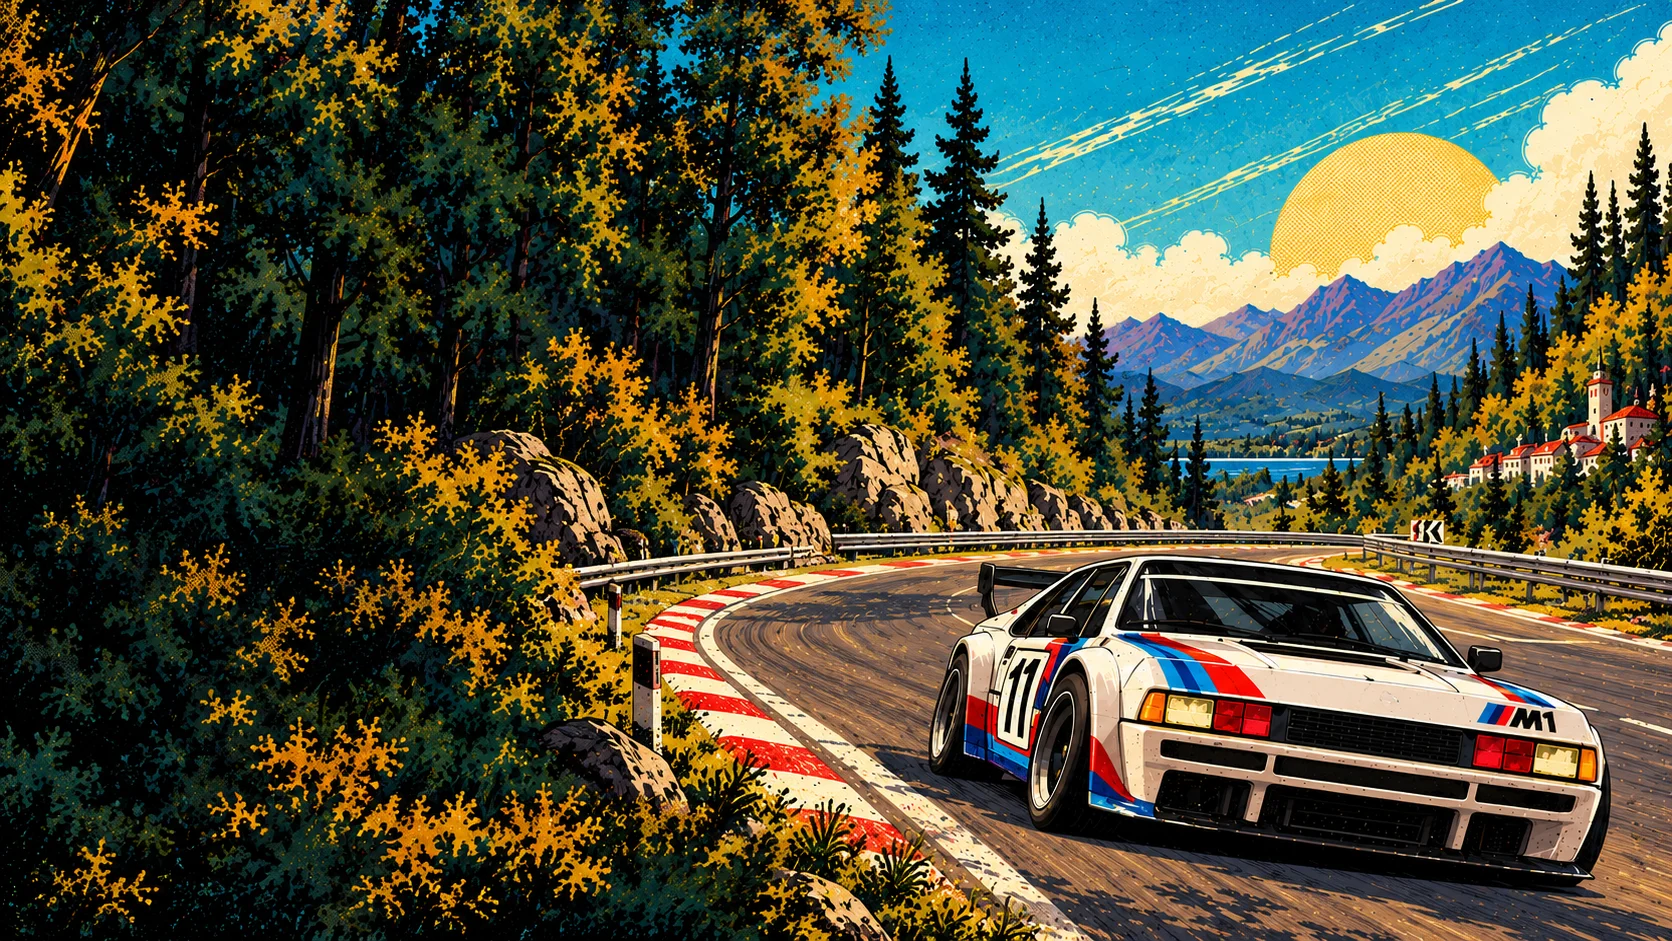
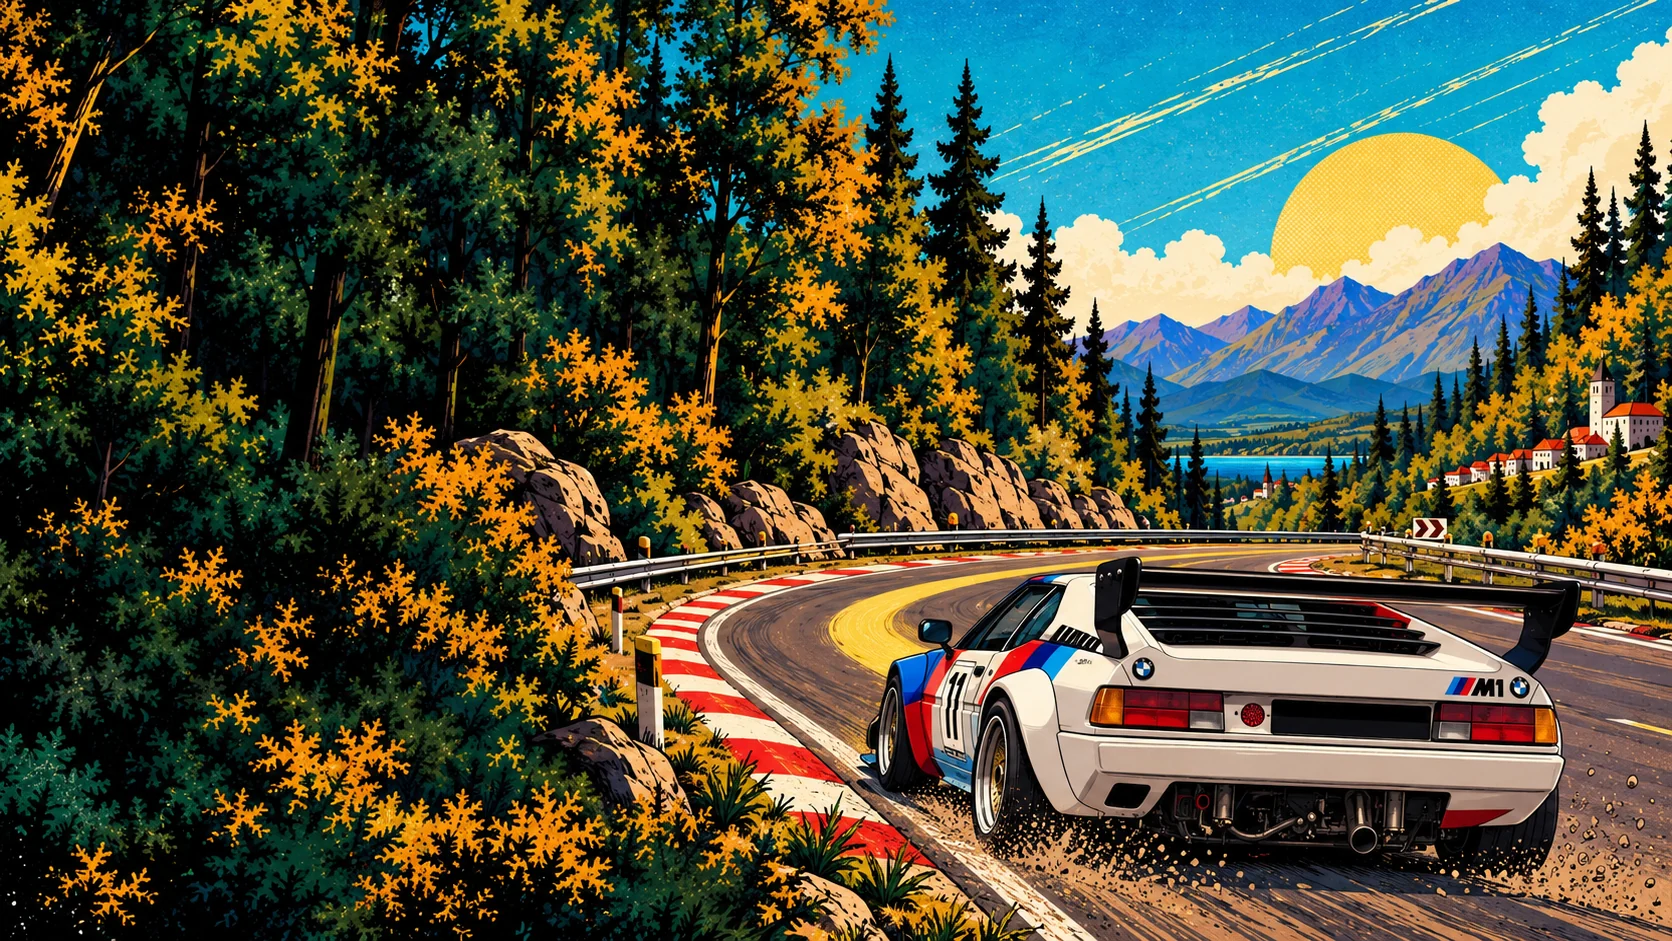
Use the reworked M1 home illustrations
The PC and mobile home backgrounds now come from Bruno's
accueil-pc_reprise / accueil-mobile_reprise masters, re-encoded to
WebP at a weight close to the previous ones (550 and 575 KB instead
of 3.2 MB). The CSS URLs carry a revision so browsers drop the old
cached pictures.

Claude-Session: https://claude.ai/code/session_01WCku2F6Jz7QYnAByeRTzna

diff --git a/index.html b/index.html
@@ -7,45 +7,45 @@
   <meta name="mobile-web-app-capable" content="yes">
   <meta name="theme-color" content="#0f1117">
   <title>Eyes On Line</title>
-  <link rel="icon" type="image/png" sizes="32x32" href="art/icone-32.png?v=0.39.0">
-  <link rel="icon" type="image/png" sizes="16x16" href="art/icone-16.png?v=0.39.0">
-  <link rel="icon" type="image/png" sizes="48x48" href="art/icone-48.png?v=0.39.0">
-  <link rel="icon" type="image/x-icon" href="favicon.ico?v=0.39.0">
-  <link rel="apple-touch-icon" href="art/icone-180.png?v=0.39.0">
-  <link rel="manifest" href="site.webmanifest?v=0.39.0">
-  <link rel="stylesheet" href="css/style.css?v=0.39.0">
+  <link rel="icon" type="image/png" sizes="32x32" href="art/icone-32.png?v=0.39.1">
+  <link rel="icon" type="image/png" sizes="16x16" href="art/icone-16.png?v=0.39.1">
+  <link rel="icon" type="image/png" sizes="48x48" href="art/icone-48.png?v=0.39.1">
+  <link rel="icon" type="image/x-icon" href="favicon.ico?v=0.39.1">
+  <link rel="apple-touch-icon" href="art/icone-180.png?v=0.39.1">
+  <link rel="manifest" href="site.webmanifest?v=0.39.1">
+  <link rel="stylesheet" href="css/style.css?v=0.39.1">
 </head>
 <body>
   <canvas id="game"></canvas>
   <div id="ui" class="hidden"></div>
 
-  <script src="js/version.js?v=0.39.0"></script>
-  <script src="js/util.js?v=0.39.0"></script>
-  <script src="js/controls.js?v=0.39.0"></script>
-  <script src="js/traces.js?v=0.39.0"></script>
-  <script src="js/tracks.js?v=0.39.0"></script>
-  <script src="js/track.js?v=0.39.0"></script>
-  <script src="js/cars.js?v=0.39.0"></script>
-  <script src="js/carart.js?v=0.39.0"></script>
-  <script src="js/car.js?v=0.39.0"></script>
-  <script src="js/flags.js?v=0.39.0"></script>
-  <script src="js/race.js?v=0.39.0"></script>
-  <script src="js/career.js?v=0.39.0"></script>
-  <script src="js/store.js?v=0.39.0"></script>
-  <script src="js/props.js?v=0.39.0"></script>
-  <script src="js/room-rtc.js?v=0.39.0"></script>
-  <script src="js/paquet.js?v=0.39.0"></script>
-  <script src="js/spectator.js?v=0.39.0"></script>
-  <script src="js/net-drive.js?v=0.39.0"></script>
-  <script src="js/net.js?v=0.39.0"></script>
-  <script src="js/mondial.js?v=0.39.0"></script>
-  <script src="js/analytics.js?v=0.39.0"></script>
-  <script src="js/circuit-graphics.js?v=0.39.0"></script>
-<script src="js/render.js?v=0.39.0"></script>
-  <script src="js/engine-audio.js?v=0.39.0"></script>
-  <script src="js/audio.js?v=0.39.0"></script>
-  <script src="js/ui.js?v=0.39.0"></script>
-  <script src="js/gamepad-ui.js?v=0.39.0"></script>
-  <script src="js/main.js?v=0.39.0"></script>
+  <script src="js/version.js?v=0.39.1"></script>
+  <script src="js/util.js?v=0.39.1"></script>
+  <script src="js/controls.js?v=0.39.1"></script>
+  <script src="js/traces.js?v=0.39.1"></script>
+  <script src="js/tracks.js?v=0.39.1"></script>
+  <script src="js/track.js?v=0.39.1"></script>
+  <script src="js/cars.js?v=0.39.1"></script>
+  <script src="js/carart.js?v=0.39.1"></script>
+  <script src="js/car.js?v=0.39.1"></script>
+  <script src="js/flags.js?v=0.39.1"></script>
+  <script src="js/race.js?v=0.39.1"></script>
+  <script src="js/career.js?v=0.39.1"></script>
+  <script src="js/store.js?v=0.39.1"></script>
+  <script src="js/props.js?v=0.39.1"></script>
+  <script src="js/room-rtc.js?v=0.39.1"></script>
+  <script src="js/paquet.js?v=0.39.1"></script>
+  <script src="js/spectator.js?v=0.39.1"></script>
+  <script src="js/net-drive.js?v=0.39.1"></script>
+  <script src="js/net.js?v=0.39.1"></script>
+  <script src="js/mondial.js?v=0.39.1"></script>
+  <script src="js/analytics.js?v=0.39.1"></script>
+  <script src="js/circuit-graphics.js?v=0.39.1"></script>
+<script src="js/render.js?v=0.39.1"></script>
+  <script src="js/engine-audio.js?v=0.39.1"></script>
+  <script src="js/audio.js?v=0.39.1"></script>
+  <script src="js/ui.js?v=0.39.1"></script>
+  <script src="js/gamepad-ui.js?v=0.39.1"></script>
+  <script src="js/main.js?v=0.39.1"></script>
 </body>
 </html>

diff --git a/lignes.html b/lignes.html
@@ -4,12 +4,12 @@
 <meta charset="utf-8">
 <meta name="viewport" content="width=device-width, initial-scale=1, viewport-fit=cover, maximum-scale=1">
 <title>Eyes On Line — Éditeur de lignes et de panneaux</title>
-<link rel="icon" type="image/png" sizes="32x32" href="art/icone-32.png?v=0.39.0">
-<link rel="icon" type="image/png" sizes="16x16" href="art/icone-16.png?v=0.39.0">
-<link rel="icon" type="image/png" sizes="48x48" href="art/icone-48.png?v=0.39.0">
-<link rel="icon" type="image/x-icon" href="favicon.ico?v=0.39.0">
-<link rel="apple-touch-icon" href="art/icone-180.png?v=0.39.0">
-<link rel="stylesheet" href="css/style.css?v=0.39.0">
+<link rel="icon" type="image/png" sizes="32x32" href="art/icone-32.png?v=0.39.1">
+<link rel="icon" type="image/png" sizes="16x16" href="art/icone-16.png?v=0.39.1">
+<link rel="icon" type="image/png" sizes="48x48" href="art/icone-48.png?v=0.39.1">
+<link rel="icon" type="image/x-icon" href="favicon.ico?v=0.39.1">
+<link rel="apple-touch-icon" href="art/icone-180.png?v=0.39.1">
+<link rel="stylesheet" href="css/style.css?v=0.39.1">
 <style>
   body { overflow: hidden; }
   #ed { position: fixed; inset: 0; display: grid; grid-template-columns: 340px 1fr; }
@@ -240,15 +240,15 @@
   </div>
 </div>
 
-<script src="js/store.js?v=0.39.0"></script>
-<script src="js/util.js?v=0.39.0"></script>
-<script src="js/traces.js?v=0.39.0"></script>
-<script src="js/tracks.js?v=0.39.0"></script>
-<script src="js/track.js?v=0.39.0"></script>
-<script src="js/props.js?v=0.39.0"></script>
-<script src="js/circuit-graphics.js?v=0.39.0"></script>
-<script src="js/flags.js?v=0.39.0"></script>
-<script src="js/render.js?v=0.39.0"></script>
-<script src="js/lignes.js?v=0.39.0"></script>
+<script src="js/store.js?v=0.39.1"></script>
+<script src="js/util.js?v=0.39.1"></script>
+<script src="js/traces.js?v=0.39.1"></script>
+<script src="js/tracks.js?v=0.39.1"></script>
+<script src="js/track.js?v=0.39.1"></script>
+<script src="js/props.js?v=0.39.1"></script>
+<script src="js/circuit-graphics.js?v=0.39.1"></script>
+<script src="js/flags.js?v=0.39.1"></script>
+<script src="js/render.js?v=0.39.1"></script>
+<script src="js/lignes.js?v=0.39.1"></script>
 </body>
 </html>

diff --git a/css/style.css b/css/style.css
@@ -650,7 +650,7 @@ button:focus-visible, a:focus-visible, select:focus-visible, input:focus-visible
 .setup-options[hidden] { display: none !important; }
 
 /* 0.38 — racing poster and printed paddock sheets. Art never contains controls. */
-#ui:has(.home-screen, .title-desktop) { background: #142724 url('../art/interface/accueil-pc.webp') right center / cover no-repeat; }
+#ui:has(.home-screen, .title-desktop) { background: #142724 url('../art/interface/accueil-pc.webp?r=2') right center / cover no-repeat; }
 .game-logo { display:block; width:100%; height:auto; }
 .screen.home-screen, body.desktop .screen.home-screen { width:100%; max-width:none; height:100%; max-height:none; margin:0; padding:clamp(16px,3vh,36px) 4vw max(12px,env(safe-area-inset-bottom)); gap:12px; }
 .home-heading { width:min(54vw,740px); flex-shrink:0; }
@@ -716,7 +716,7 @@ body.desktop .screen.title-desktop { display:flex; justify-content:center; width
 .setup-screen :is(button,select,input):focus-visible, .selection-screen :is(button,select,input):focus-visible { outline:3px solid #b72c22; outline-offset:3px; }
 .setup-screen .pad-focus, .selection-screen .pad-focus { outline:3px solid #b72c22!important; outline-offset:3px; }
 @media (max-width:850px) {
-  #ui:has(.home-screen) { background-image:url('../art/interface/accueil-mobile.webp'); }
+  #ui:has(.home-screen) { background-image:url('../art/interface/accueil-mobile.webp?r=2'); }
   .screen.home-screen, body.desktop .screen.home-screen { padding: max(10px,env(safe-area-inset-top)) 16px max(10px,env(safe-area-inset-bottom)); gap:10px; }
   .home-heading { width:100%; }
   .home-heading .game-logo { height:clamp(105px,23vh,190px); max-height:none; object-position:center; }

diff --git a/editor.html b/editor.html
@@ -4,12 +4,12 @@
   <meta charset="utf-8">
   <meta name="viewport" content="width=device-width, initial-scale=1">
   <title>Eyes On Line — Éditeur de circuits</title>
-  <link rel="icon" type="image/png" sizes="32x32" href="art/icone-32.png?v=0.39.0">
-  <link rel="icon" type="image/png" sizes="16x16" href="art/icone-16.png?v=0.39.0">
-  <link rel="icon" type="image/png" sizes="48x48" href="art/icone-48.png?v=0.39.0">
-  <link rel="icon" type="image/x-icon" href="favicon.ico?v=0.39.0">
-  <link rel="apple-touch-icon" href="art/icone-180.png?v=0.39.0">
-  <link rel="stylesheet" href="css/style.css?v=0.39.0">
+  <link rel="icon" type="image/png" sizes="32x32" href="art/icone-32.png?v=0.39.1">
+  <link rel="icon" type="image/png" sizes="16x16" href="art/icone-16.png?v=0.39.1">
+  <link rel="icon" type="image/png" sizes="48x48" href="art/icone-48.png?v=0.39.1">
+  <link rel="icon" type="image/x-icon" href="favicon.ico?v=0.39.1">
+  <link rel="apple-touch-icon" href="art/icone-180.png?v=0.39.1">
+  <link rel="stylesheet" href="css/style.css?v=0.39.1">
   <style>
     body { overflow: hidden; }
     #ed { position: fixed; inset: 0; display: grid; grid-template-columns: 300px 1fr; }
@@ -63,9 +63,9 @@
     </div>
     <canvas id="cv"></canvas>
   </div>
-  <script src="js/util.js?v=0.39.0"></script>
-  <script src="js/track.js?v=0.39.0"></script>
-  <script src="js/store.js?v=0.39.0"></script>
-  <script src="js/editor.js?v=0.39.0"></script>
+  <script src="js/util.js?v=0.39.1"></script>
+  <script src="js/track.js?v=0.39.1"></script>
+  <script src="js/store.js?v=0.39.1"></script>
+  <script src="js/editor.js?v=0.39.1"></script>
 </body>
 </html>

diff --git a/moteur.html b/moteur.html
@@ -4,12 +4,12 @@
   <meta charset="utf-8">
   <meta name="viewport" content="width=device-width, initial-scale=1, viewport-fit=cover">
   <title>Eyes On Line — banc moteur</title>
-  <link rel="icon" type="image/png" sizes="32x32" href="art/icone-32.png?v=0.39.0">
-  <link rel="icon" type="image/png" sizes="16x16" href="art/icone-16.png?v=0.39.0">
-  <link rel="icon" type="image/png" sizes="48x48" href="art/icone-48.png?v=0.39.0">
-  <link rel="icon" type="image/x-icon" href="favicon.ico?v=0.39.0">
-  <link rel="apple-touch-icon" href="art/icone-180.png?v=0.39.0">
-  <link rel="stylesheet" href="css/style.css?v=0.39.0">
+  <link rel="icon" type="image/png" sizes="32x32" href="art/icone-32.png?v=0.39.1">
+  <link rel="icon" type="image/png" sizes="16x16" href="art/icone-16.png?v=0.39.1">
+  <link rel="icon" type="image/png" sizes="48x48" href="art/icone-48.png?v=0.39.1">
+  <link rel="icon" type="image/x-icon" href="favicon.ico?v=0.39.1">
+  <link rel="apple-touch-icon" href="art/icone-180.png?v=0.39.1">
+  <link rel="stylesheet" href="css/style.css?v=0.39.1">
   <style>
     body { margin: 0; background: #0f1117; color: #e8e8ec; font: 15px/1.5 system-ui, sans-serif; }
     .banc { max-width: 720px; margin: 0 auto; padding: 18px 16px 60px; }
@@ -55,7 +55,7 @@
     <p class="muted" style="margin-top:18px">Ce que le mélangeur envoie, en direct :</p>
     <table id="voies"></table>
   </div>
-  <script src="js/engine-audio.js?v=0.39.0"></script>
-  <script src="js/moteur.js?v=0.39.0"></script>
+  <script src="js/engine-audio.js?v=0.39.1"></script>
+  <script src="js/moteur.js?v=0.39.1"></script>
 </body>
 </html>

diff --git a/analytics.html b/analytics.html
@@ -6,8 +6,8 @@
   <meta name="robots" content="noindex,nofollow">
   <meta name="referrer" content="same-origin">
   <title>Statistiques · Eyes On Line</title>
-  <link rel="icon" href="art/icone-32.png?v=0.39.0">
-  <link rel="stylesheet" href="css/analytics.css?v=0.39.0">
+  <link rel="icon" href="art/icone-32.png?v=0.39.1">
+  <link rel="stylesheet" href="css/analytics.css?v=0.39.1">
 </head>
 <body>
   <header><a class="brand" href="index.html">EYES ON LINE <span> / ANALYTICS</span></a>
@@ -45,9 +45,9 @@
         <p>Graphiques : <a href="https://github.com/apache/echarts">Apache ECharts 6.0.0</a> · <a href="vendor/echarts/LICENSE">Apache 2.0</a>. <a href="docs/analytics/README.md">Installation et définitions</a>.</p></footer>
     </div>
   </main>
-  <script src="js/version.js?v=0.39.0"></script><script src="js/util.js?v=0.39.0"></script>
-  <script src="js/traces.js?v=0.39.0"></script><script src="js/tracks.js?v=0.39.0"></script><script src="js/cars.js?v=0.39.0"></script>
-  <script src="js/mondial.js?v=0.39.0"></script><script src="vendor/echarts/echarts.min.js?v=0.39.0"></script>
-  <script src="js/analytics-dashboard.js?v=0.39.0"></script>
+  <script src="js/version.js?v=0.39.1"></script><script src="js/util.js?v=0.39.1"></script>
+  <script src="js/traces.js?v=0.39.1"></script><script src="js/tracks.js?v=0.39.1"></script><script src="js/cars.js?v=0.39.1"></script>
+  <script src="js/mondial.js?v=0.39.1"></script><script src="vendor/echarts/echarts.min.js?v=0.39.1"></script>
+  <script src="js/analytics-dashboard.js?v=0.39.1"></script>
 </body>
 </html>

diff --git a/js/version.js b/js/version.js
@@ -11,5 +11,5 @@ browser to fetch the new files.
 */
 'use strict';
 
-const APP_VERSION = '0.39.0';
+const APP_VERSION = '0.39.1';
 const APP_DATE = '2026-10-19';
